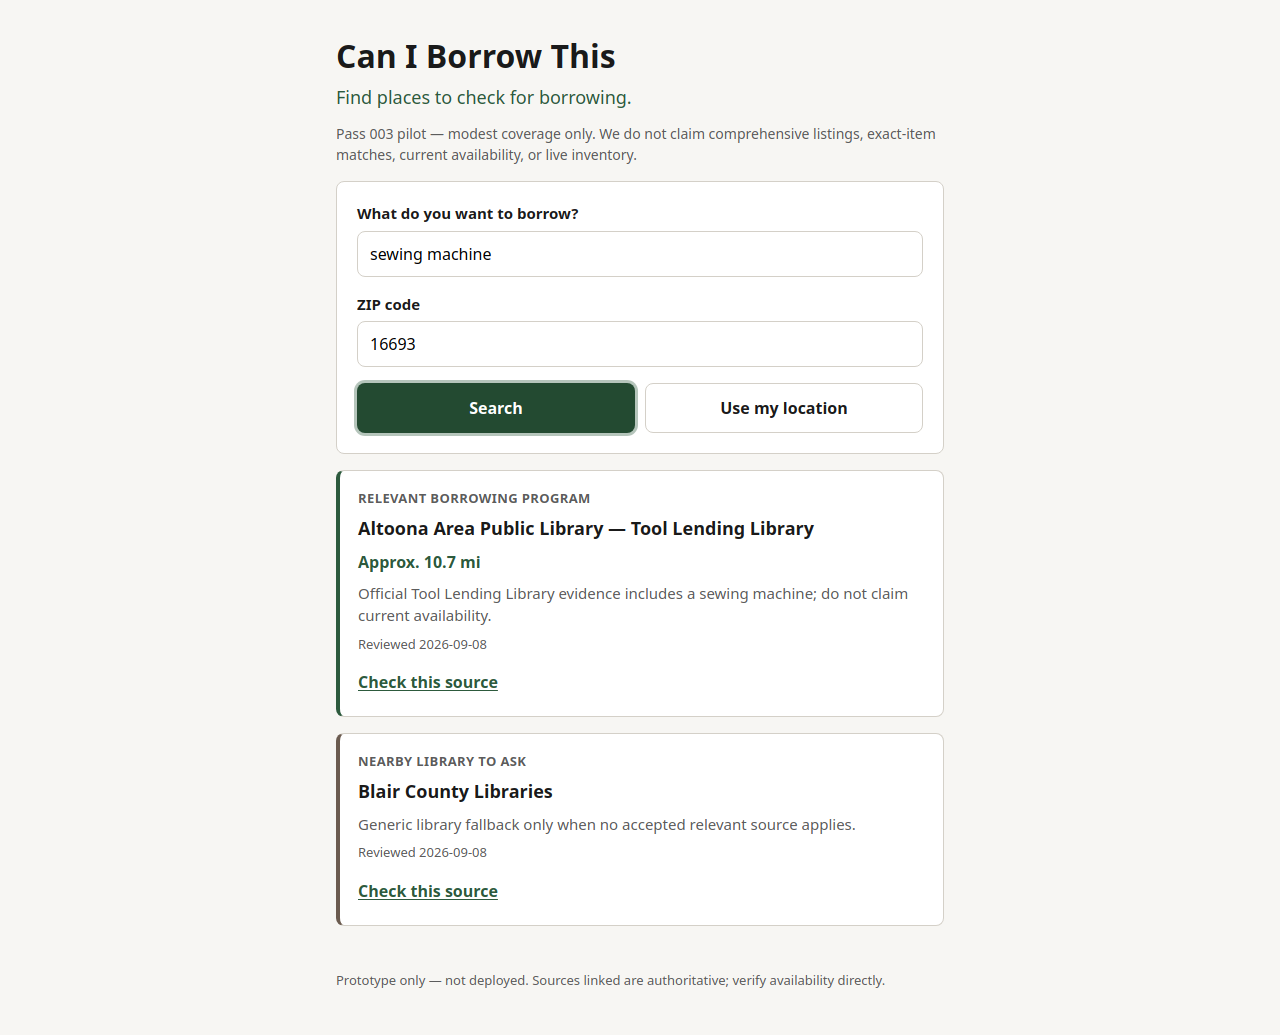
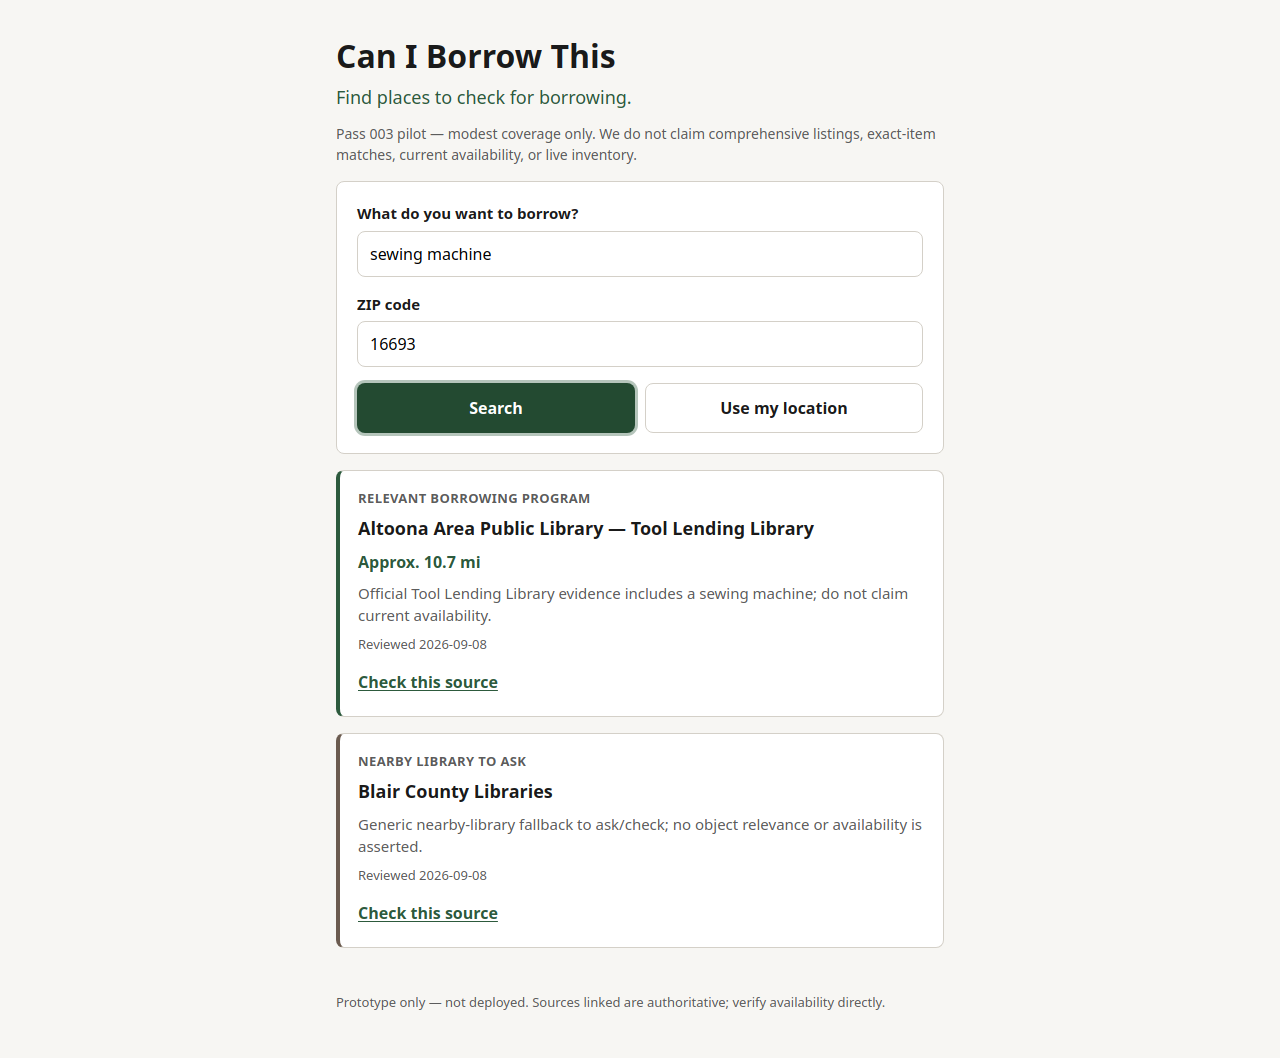
fix: correct S6 fallback note for truthful copy when relevant source present
SC-01 shows S1 and S6 together; S6 note must not imply no relevant
source exists. Correction 3 per CIBT Primary visual QA.

diff --git a/js/data.js b/js/data.js
@@ -93,7 +93,7 @@ export const SOURCES = [
     geographyZips: ['16693'],
     objectClasses: null,
     objectRelevance: 'NONE_ASSERTED',
-    note: 'Generic library fallback only when no accepted relevant source applies.',
+    note: 'Generic nearby-library fallback to ask/check; no object relevance or availability is asserted.',
     reviewDate: '2026-09-08',
   },
 ];
